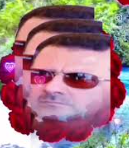
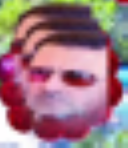
New

diff --git a/src/main/java/com/esadbashar/esadbashar/Main.kt b/src/main/java/com/esadbashar/esadbashar/Main.kt
@@ -31,9 +31,15 @@ class Main : Application() {
     private var windowWidth = 800.0
     private var windowHeight = 600.0
     private var lastDuplicationTime = 0L
-    private val duplicationInterval = 15_000_000_000L // 15 seconds in nanoseconds
+    private val duplicationInterval = 2_000_000_000L
     private var baseImage: Image? = null
     private var mediaPlayer: MediaPlayer? = null
+    private var countdownLabel: Label? = null
+    private var gameStartTime = 0L
+    private var imagesClickable = false
+    private var winLabel: Label? = null
+    private var winTime = 0L
+    private var gameWon = false
     
     override fun start(primaryStage: Stage) {
         // Check Java version before starting
@@ -68,6 +74,15 @@ class Main : Application() {
         
         // Create first bouncing image
         createNewBouncingImage()
+        
+        // Create countdown label
+        countdownLabel = Label("20")
+        countdownLabel?.font = Font.font(72.0)
+        countdownLabel?.textFill = Color.WHITE
+        countdownLabel?.style = "-fx-background-color: rgba(0, 0, 0, 0.7); -fx-padding: 20px;"
+        countdownLabel?.layoutX = (windowWidth / 2) - 50
+        countdownLabel?.layoutY = 50.0
+        pane.children.add(countdownLabel)
         
         // Create close button
         val closeButton = Label("X")
@@ -110,9 +125,20 @@ class Main : Application() {
             createPlaceholderImage()
         }
         
-        // Make image non-interactive (mouse events pass through)
-        imageView.isPickOnBounds = false
-        imageView.isMouseTransparent = true
+        // Set up click handler for removing image
+        imageView.isPickOnBounds = true
+        imageView.setOnMouseClicked {
+            if (imagesClickable && !gameWon) {
+                pane.children.remove(imageView)
+                bouncingImages.removeIf { it.imageView == imageView }
+                println("Image removed. Total: ${bouncingImages.size}")
+                
+                // Check if all images are removed
+                if (bouncingImages.isEmpty()) {
+                    showWinMessage()
+                }
+            }
+        }
         
         // Set random initial position
         val imgWidth = imageView.boundsInLocal.width.coerceAtLeast(1.0)
@@ -122,9 +148,9 @@ class Main : Application() {
         imageView.x = if (maxX > 0) Random.nextDouble(0.0, maxX) else 0.0
         imageView.y = if (maxY > 0) Random.nextDouble(0.0, maxY) else 0.0
         
-        // Random velocity
-        val velocityX = Random.nextDouble(2.0, 4.0) * if (Random.nextBoolean()) 1 else -1
-        val velocityY = Random.nextDouble(2.0, 4.0) * if (Random.nextBoolean()) 1 else -1
+        // Random velocity (2x faster)
+        val velocityX = Random.nextDouble(4.0, 8.0) * if (Random.nextBoolean()) 1 else -1
+        val velocityY = Random.nextDouble(4.0, 8.0) * if (Random.nextBoolean()) 1 else -1
         
         // Random color
         changeImageColor(imageView)
@@ -164,21 +190,66 @@ class Main : Application() {
         return ImageView(snapshot)
     }
     
+    private fun showWinMessage() {
+        gameWon = true
+        winTime = System.nanoTime()
+        
+        winLabel = Label("You Win!")
+        winLabel?.font = Font.font(100.0)
+        winLabel?.textFill = Color.YELLOW
+        winLabel?.style = "-fx-background-color: rgba(0, 0, 0, 0.8); -fx-padding: 40px;"
+        winLabel?.layoutX = (windowWidth / 2) - 250
+        winLabel?.layoutY = (windowHeight / 2) - 100
+        pane.children.add(winLabel)
+        
+        println("YOU WIN! Game will close in 10 seconds...")
+    }
+    
     private fun startBouncingAnimation() {
         object : AnimationTimer() {
             override fun handle(now: Long) {
+                // Check win condition timer
+                if (gameWon && winTime > 0) {
+                    val elapsedSinceWin = ((now - winTime) / 1_000_000_000L).toInt()
+                    if (elapsedSinceWin >= 10) {
+                        mediaPlayer?.stop()
+                        Platform.exit()
+                        exitProcess(0)
+                    }
+                }
+                
+                // Initialize game start time
+                if (gameStartTime == 0L) {
+                    gameStartTime = now
+                }
+                
+                // Update countdown
+                val elapsedSeconds = ((now - gameStartTime) / 1_000_000_000L).toInt()
+                val remainingSeconds = 10 - elapsedSeconds
+                
+                if (remainingSeconds > 0) {
+                    countdownLabel?.text = remainingSeconds.toString()
+                } else if (remainingSeconds == 0) {
+                    countdownLabel?.text = "GO!"
+                    imagesClickable = true
+                } else if (remainingSeconds == -1) {
+                    pane.children.remove(countdownLabel)
+                    countdownLabel = null
+                }
+                
                 // Check if it's time to duplicate
                 if (lastDuplicationTime == 0L) {
                     lastDuplicationTime = now
                 }
                 
-                if (now - lastDuplicationTime >= duplicationInterval) {
+                if (now - lastDuplicationTime >= duplicationInterval && !gameWon) {
                     createNewBouncingImage()
                     lastDuplicationTime = now
                 }
                 
-                // Update all bouncing images
-                for (i in bouncingImages.indices) {
+                // Update all bouncing images (stop if game won)
+                if (!gameWon) {
+                    for (i in bouncingImages.indices) {
                     val bouncing = bouncingImages[i]
                     val img = bouncing.imageView
                     
@@ -232,6 +303,7 @@ class Main : Application() {
                             handleCollision(bouncing, other)
                         }
                     }
+                }
                 }
             }
         }.start()
